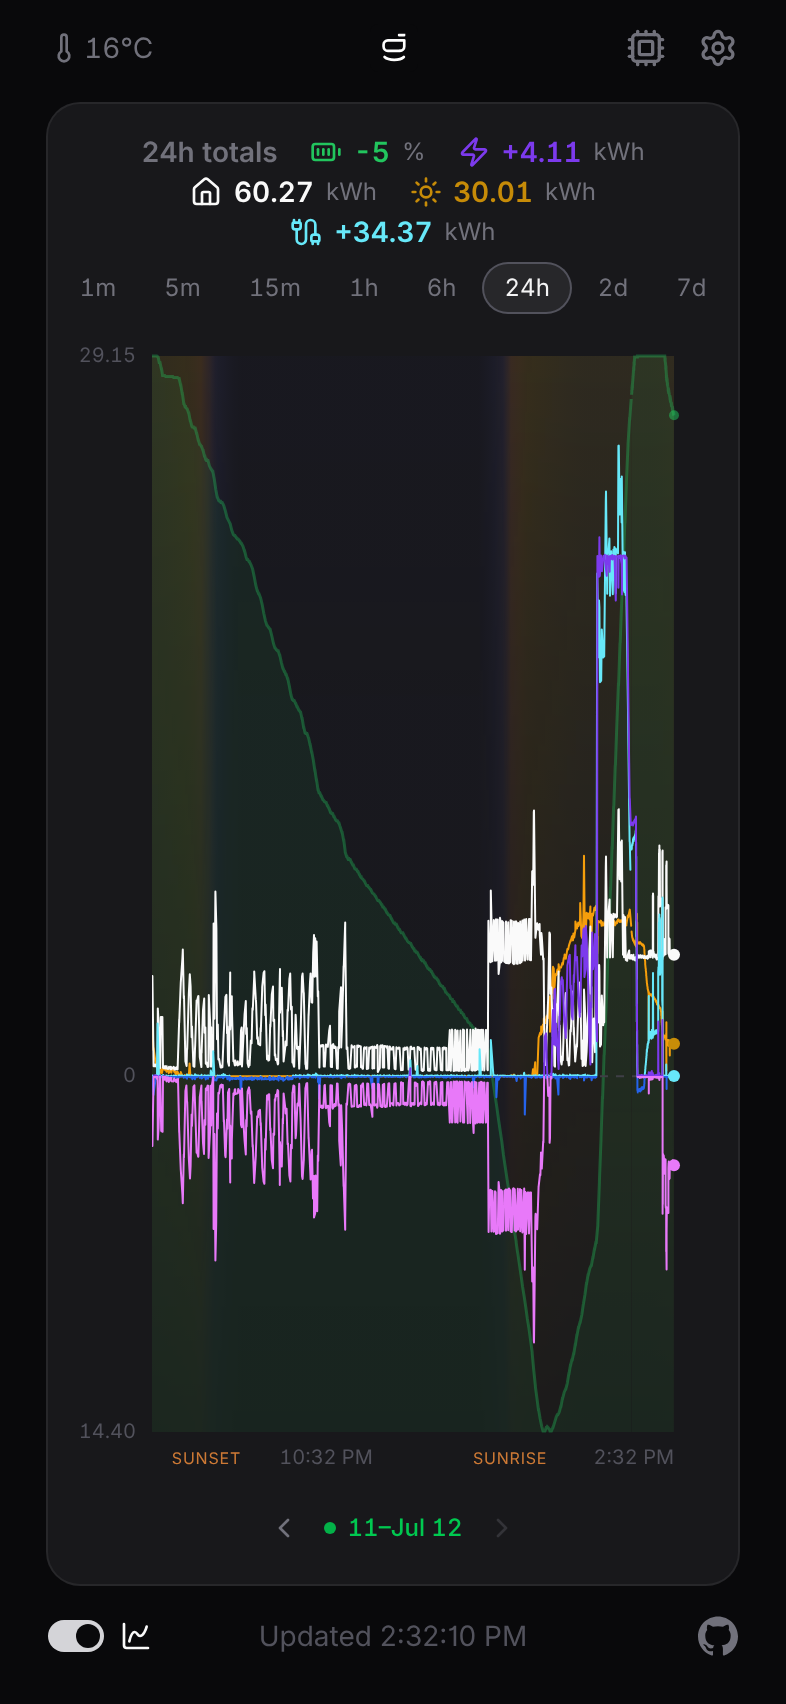
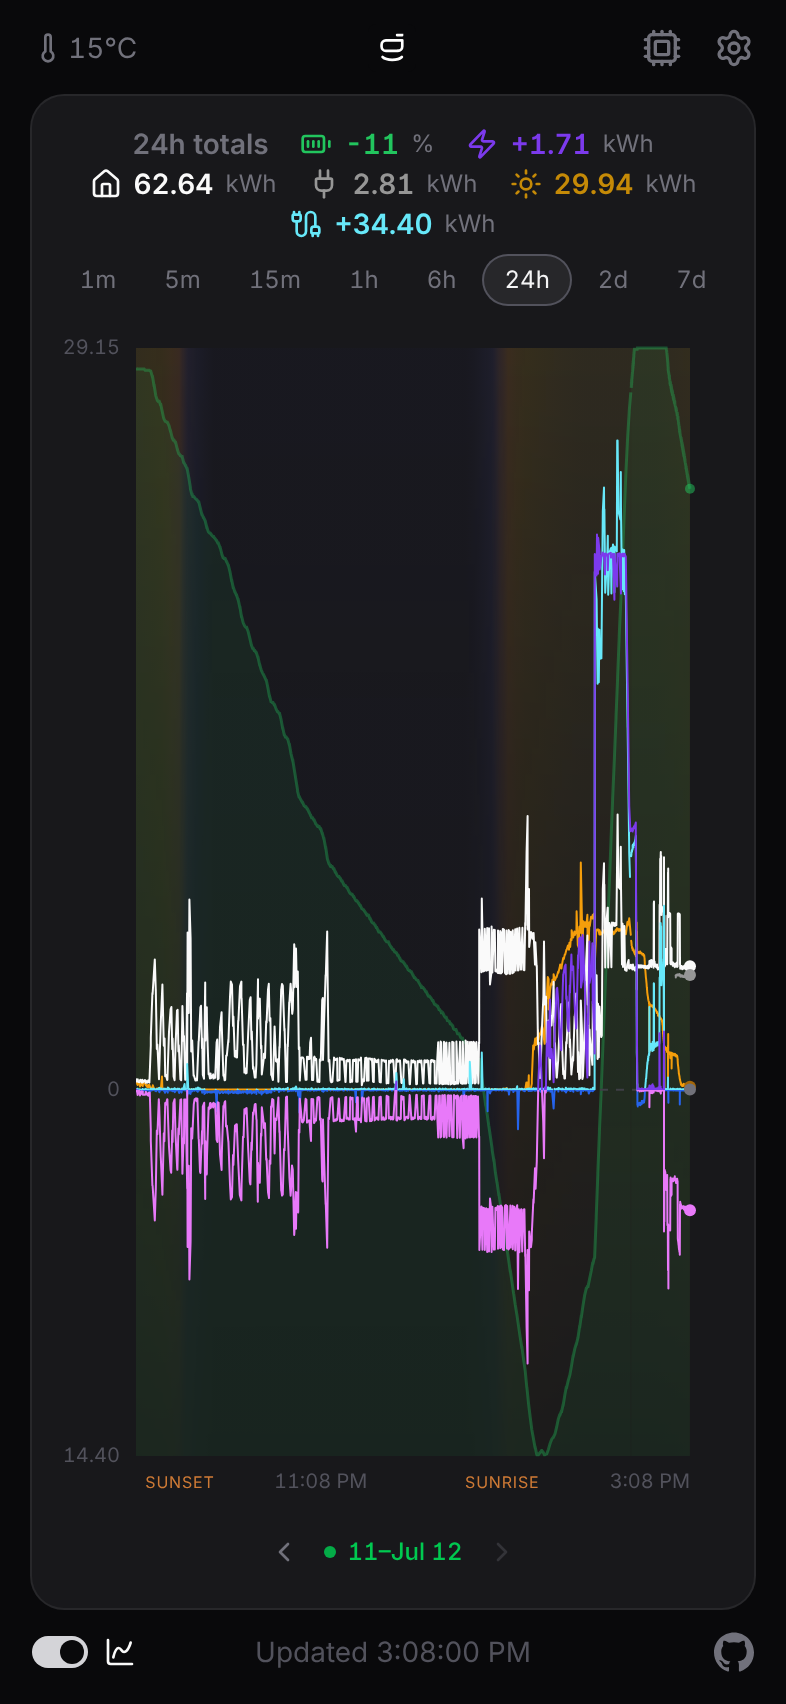
Documented the narrow-screen home tile compaction and mobile spacing tiers in the README and deep dive, regenerated the six screenshots the change moved, and taught the walkthrough harness to stage the Smart Port dashboard state with an energy-rebalanced hot water load in its animated frames.

diff --git a/docs/DEEP_DIVE.md b/docs/DEEP_DIVE.md
@@ -265,11 +265,11 @@ If another instance is already advertising the same name on the LAN (say a dev c
 
 The dashboard is a four-panel grid: solar, a combined battery panel (state of charge plus charge/discharge power), grid, and home consumption. The title sits top centre with the outdoor temperature top left and the gear top right; the connection state and last-updated time sit along the bottom, with a link to the source on GitHub in the lower right. Battery and grid power carry a direction arrow beside the value, drawn in a darker shade of the metric's colour so the direction reads separately from the number: up for discharging or exporting, down for charging or importing, nothing when idle. Tapping the title reloads the app, which is the quick fix when an iOS home-screen instance has gone stale. Tap any panel for a fullscreen readout suitable for a wall display or iPad; the app icon sits top centre there too and reloads on tap. Clicking the reading itself cycles its layout (a plain figure and a compact icon-and-value glyph, where battery and grid power swap their icon for the direction arrow while flowing); clicking around it returns to the dashboard. On the battery panel the left half opens the charge reading and the right half opens the power flow. The charge reading is a percentage by default; switching the charge display in Settings → Battery shows it instead as stored energy in kWh (state of charge times the usable capacity, falling back to the rated register), to one decimal place. The colour, battery icon, and fill bar stay tied to the state of charge in either mode, so only the headline number and its unit change, and the same switch carries into the panel's fullscreen view.
 
-Turning on **Show Smart Port on the dashboard** (Settings → Smart Port; it only takes effect while Smart Port loads are detected) layers the gateway's controlled loads over the home panel. The combined draw sits directly above the home total at the same size in a dimmed shade: dimmed home-white while drawing, and a darker grey at zero, so neither state can be mistaken for the ordinary idle colour on a zero reading. The panel title reads **Home • Smart Port**, and the home fullscreen's click-cycle continues past the two standard layouts into a pair of views per detected load, a titled readout carrying the load's name and its Drawing/Idle state, then a plug-icon glyph, so a wall display can be parked on any single load.
+Turning on **Show Smart Port on the dashboard** (Settings → Smart Port; it only takes effect while Smart Port loads are detected) layers the gateway's controlled loads over the home panel. The combined draw sits directly above the home total at the same size in a dimmed shade: dimmed home-white while drawing, and a darker grey at zero, so neither state can be mistaken for the ordinary idle colour on a zero reading. The panel title reads **Home • Smart Port**, and the home fullscreen's click-cycle continues past the two standard layouts into a pair of views per detected load, a titled readout carrying the load's name and its Drawing/Idle state, then a plug-icon glyph, so a wall display can be parked on any single load. Below 768px the panel header condenses so both titles hold one line: the words "Smart Port" drop away leaving **Home •** and the plug icon, and the cost label (when the tariff estimate shares the panel) shortens to "Today's Estimate" or "Hourly Estimate".
 
 When the battery has been moving steadily in one direction, an estimate line fades in under the charge bar: "Full in 1h 45m ~3:05 pm" while charging (right-aligned, under the power side) or "Empty in 3h 25m ~9:05 am" while discharging (left-aligned, under the percentage side). It takes the most recent unbroken run of same-direction samples (battery power beyond a ±100 W noise floor) and shows "Estimating…" while that run is still building. Once the usable capacity is known (the Settings → Battery value, or the rated register it falls back to), the projection comes from the battery's power flow rather than its state of charge: charge or discharge watts over capacity give a percent-per-hour rate, weighted toward the most recent readings with a 90-second time constant, so a step in power moves the estimate within a minute or two instead of waiting for the slow charge trend to catch up; that lag was the old version's main weakness, since a 0.1%-resolution state of charge takes minutes to reveal a rate change. With no capacity to scale by, it falls back to fitting a line to the state of charge over the run, and only then waits for 0.35% of charge travel so it doesn't guess from quantisation noise. Either way the line settles once the run spans a minute with at least five samples. Runs break on opposite-direction samples and on gaps larger than three times the recent sample cadence, so a poll-schedule change or a disconnect can't splice two unrelated trends together. Projections beyond 24 hours are hidden, times are rounded to five minutes so the numbers don't churn with every poll, and the line lives in a reserved slot that holds its height whether it carries the projection, an "Estimating…" note, or nothing, so the layout never shifts. When the battery is simply holding, neither charging nor discharging past the noise floor, the slot stays empty rather than labelling the state. Setting a reserve charge in Settings → Battery counts the discharge estimate down to that floor instead of zero and labels it "Reserve in …", since the system won't drain below it. The reserve defaults to off until you set it; `/api/snapshot` still carries the energy still to flow as `energyToGoKwh` for anything reading the API directly.
 
-The layout adapts from desktop down to a phone, where the panels stack into a single column sized to fill the screen: the four rows divide the height with the battery panel weighted a little larger, the values size down a step, and on a short screen the panels and readings compact further so all four still fit without scrolling. A phone held in landscape drops the battery bar to give the panels room. In the other direction, on landscape screens 1024px and wider the values and their arrows scale fluidly with the viewport, capped so the widest reading still fits its panel (the battery panel, holding two readings, caps a little earlier, and also shrinks to fit at narrow two-column widths). A reading-size slider (50–150%, default 100%, with a reset to default) multiplies that large-screen growth without touching phone sizes.
+The layout adapts from desktop down to a phone, where the panels stack into a single column sized to fill the screen: the four rows divide the height with the battery panel weighted a little larger, the values size down a step, the page margins, panel padding, and grid gaps each tighten a notch, and on a short screen the panels and readings compact further so all four still fit without scrolling. A phone held in landscape drops the battery bar to give the panels room. In the other direction, on landscape screens 1024px and wider the values and their arrows scale fluidly with the viewport, capped so the widest reading still fits its panel (the battery panel, holding two readings, caps a little earlier, and also shrinks to fit at narrow two-column widths). A reading-size slider (50–150%, default 100%, with a reset to default) multiplies that large-screen growth without touching phone sizes.
 
 ### Trends
 
@@ -343,7 +343,7 @@ Rate resolution mirrors the poll schedule (`server/schedule.js`): the active rat
 
 Both surfaces share one pure engine, `ui/src/lib/tariff.js`, so the figures stay consistent and the maths is unit-tested (`server/tests/tariff-cost.test.js` imports the same module). Computation runs in the browser, which means windows and the day boundary use the viewer's local timezone and so follow daylight saving automatically.
 
-The dashboard and its `/cost` fullscreen read through `useCostReadout`, which returns the signed amount (negative = net cost, positive = net credit), the currency, the `costMode`, and a contextual label (`Today's Cost Estimate` or `Hourly Cost Estimate`). `MoneyValue` renders the figure so a minus reads as money in your favour: a credit shows a leading `−` in the themeable `credit` colour, a cost shows plain (no sign) in the `cost` colour, and idle is a plain zero in grey, with the currency symbol and any minus dropped to a darker tint of that colour (the same trick the flow arrows use).
+The dashboard and its `/cost` fullscreen read through `useCostReadout`, which returns the signed amount (negative = net cost, positive = net credit), the currency, the `costMode`, and a contextual label (`Today's Cost Estimate` or `Hourly Cost Estimate`) alongside a short form ("Today's Estimate" / "Hourly Estimate") the dashboard tile swaps in below 768px. `MoneyValue` renders the figure so a minus reads as money in your favour: a credit shows a leading `−` in the themeable `credit` colour, a cost shows plain (no sign) in the `cost` colour, and idle is a plain zero in grey, with the currency symbol and any minus dropped to a darker tint of that colour (the same trick the flow arrows use).
 
 - **Dashboard** (Home tile, gated on `showOnDashboard`): the tile splits like the battery tile (home consumption on the left, the cost figure on the right at the full metric font) and each half routes to its own fullscreen (`/cost` for the cost view). In `perDay` mode (default) the figure is today's net so far; in `perHour` mode it is the instantaneous rate, `costPerHour` × the live grid power (import rate when `gridPower > 0`, export rate when exporting), negated so it shares the net sign convention. A 50 W grid deadband (applied in both `costPerHour` and the daily integration) suppresses the gateway's idle ±0.01 kW jitter, so a near-balanced grid reads as a steady zero instead of flickering.
 - **Cost fullscreen** (`/cost`): `dailyCost` walks today's history samples, integrating each consecutive pair trapezoidally into kWh and skipping gaps longer than fifteen minutes so an outage doesn't smear the figures. Each interval's kWh is attributed to the rate active at its midpoint, tallying import cost and feed-in separately. The super-export credit caps the day's in-window export kWh at `capKwh` and applies its bonus rate; the zero-draw credit pays `perDay` if no grid import lands in its window all day. Net is feed-in plus credits minus import cost minus the full daily supply charge, shown as the headline figure and again as a labelled total under the breakdown.
@@ -462,7 +462,7 @@ SIGEN_URL=http://bridge.lan:5163 npm run walkthrough
 
 The tour lands on the dashboard, opens the fullscreen solar metric, the cost view, the device breakdown, and the trends chart, then steps through the theme, gateway, and Apple Home settings before returning to the dashboard. Each tap draws a ripple at the element's centre, from a fixed overlay injected before the app boots, so the recording reads as touch input with no mouse cursor.
 
-The readings move on camera. `capture-walkthrough.mjs` precomputes a run of energy-balanced frames (solar ramping up, the battery charging, SoC climbing, grid export growing, home load wobbling) and a stubbed `EventSource` emits one every 1.4 seconds, so solar, battery, grid, and SoC tick the whole way through. The Home-tile cost and the cost view come from history and the tariff rather than the live state, so they hold steady; that is expected. The gateway host, HomeKit PIN, advertise address, inverter serial, and outdoor location are swapped for placeholders before they reach the recording, the same redactions the screenshots make.
+The readings move on camera. `capture-walkthrough.mjs` precomputes a run of energy-balanced frames (solar ramping up, the battery charging, SoC climbing, grid export growing, home load wobbling, a Smart Port hot water draw holding near 3.6 kW) and a stubbed `EventSource` emits one every 1.4 seconds, so solar, battery, grid, and SoC tick the whole way through. The settings stub also stages **Show Smart Port on the dashboard**, so the Home tile carries the combined draw and the device breakdown shows the load's card whether or not the target instance has the switch on. The Home-tile cost and the cost view come from history and the tariff rather than the live state, so they hold steady; that is expected. The gateway host, HomeKit PIN, advertise address, inverter serial, and outdoor location are swapped for placeholders before they reach the recording, the same redactions the screenshots make.
 
 `WALKTHROUGH_TRIM_HEAD` (default 0.5) drops the initial load frames before the encode; `WALKTHROUGH_FRAMES` and `WALKTHROUGH_FRAME_MS` retune the data sequence; `WALKTHROUGH_TZ` overrides the timezone. To publish, drag the mp4 into a GitHub issue or PR comment and paste the attachment URL into the README's Demo section.
 

diff --git a/README.md b/README.md
@@ -251,7 +251,7 @@ The four dashboard panels show plant-level totals: every inverter and PV string 
 
 Anything wired to the gateway's **Smart Port** (a hot water system, pool pump, or other controlled load) gets a card too, showing whether it's drawing right now, its live power, and its lifetime energy. The gateway doesn't share the names you gave loads in the mySigen app, so name them in **Settings → Smart Port**; and it doesn't report the relay position, so a load at zero watts reads as Idle, which covers both switched-off and on-but-not-drawing. Because the gateway runs its Smart Port schedules locally, these readings keep flowing even when your internet is down.
 
-The same settings section can put the loads on the dashboard. One switch adds the combined Smart Port draw above the Home tile's total in a dimmed shade (it's part of home consumption, so the small figure reads as "of which"), retitles the tile **Home • Smart Port**, draws a Smart Port line on the trends chart, and extends the Home panel's fullscreen tap-cycle with a named readout and a plug glyph for each detected load.
+The same settings section can put the loads on the dashboard. One switch adds the combined Smart Port draw above the Home tile's total in a dimmed shade (it's part of home consumption, so the small figure reads as "of which"), retitles the tile **Home • Smart Port** (condensing to the plug icon alone on narrow screens), draws a Smart Port line on the trends chart, and extends the Home panel's fullscreen tap-cycle with a named readout and a plug glyph for each detected load.
 
 <p align="center">
   <img src="docs/screenshots/devices-desktop.png" alt="Device Breakdown" width="100%"/>
